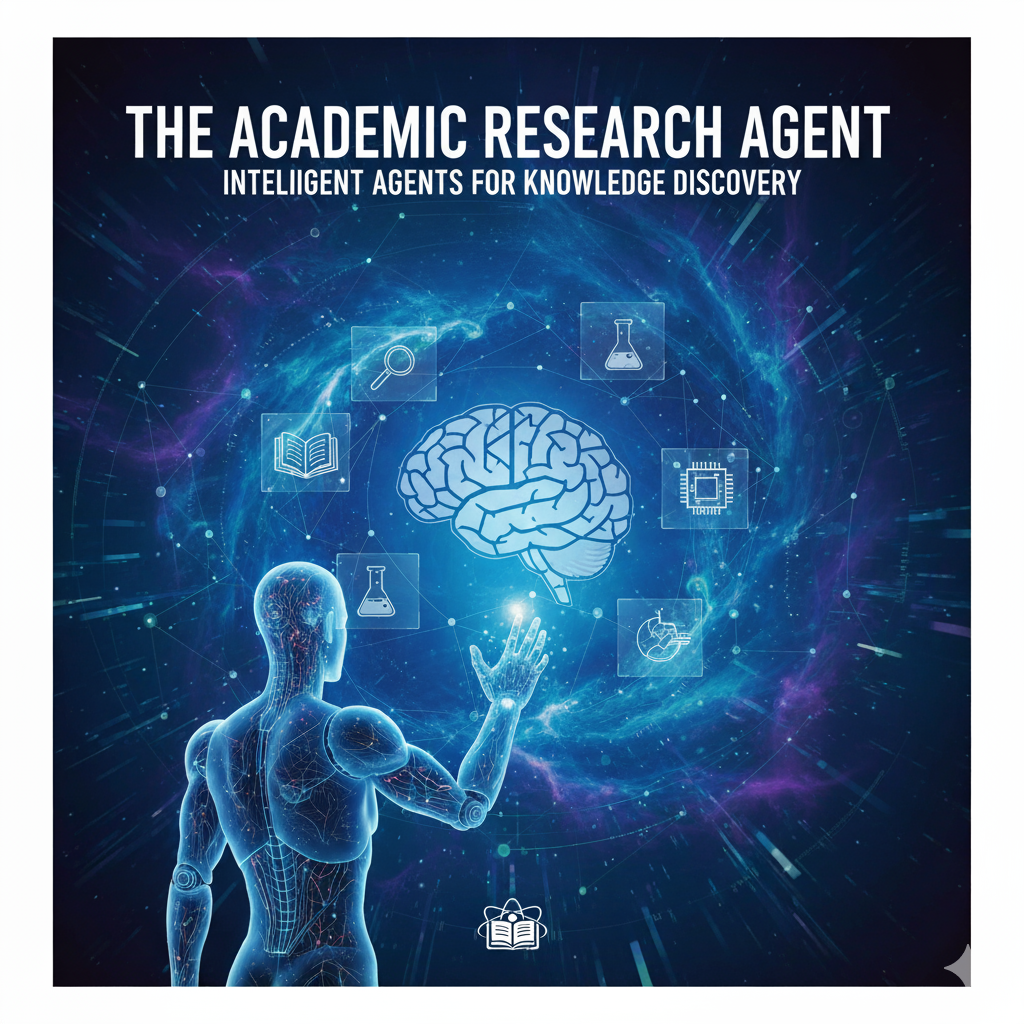
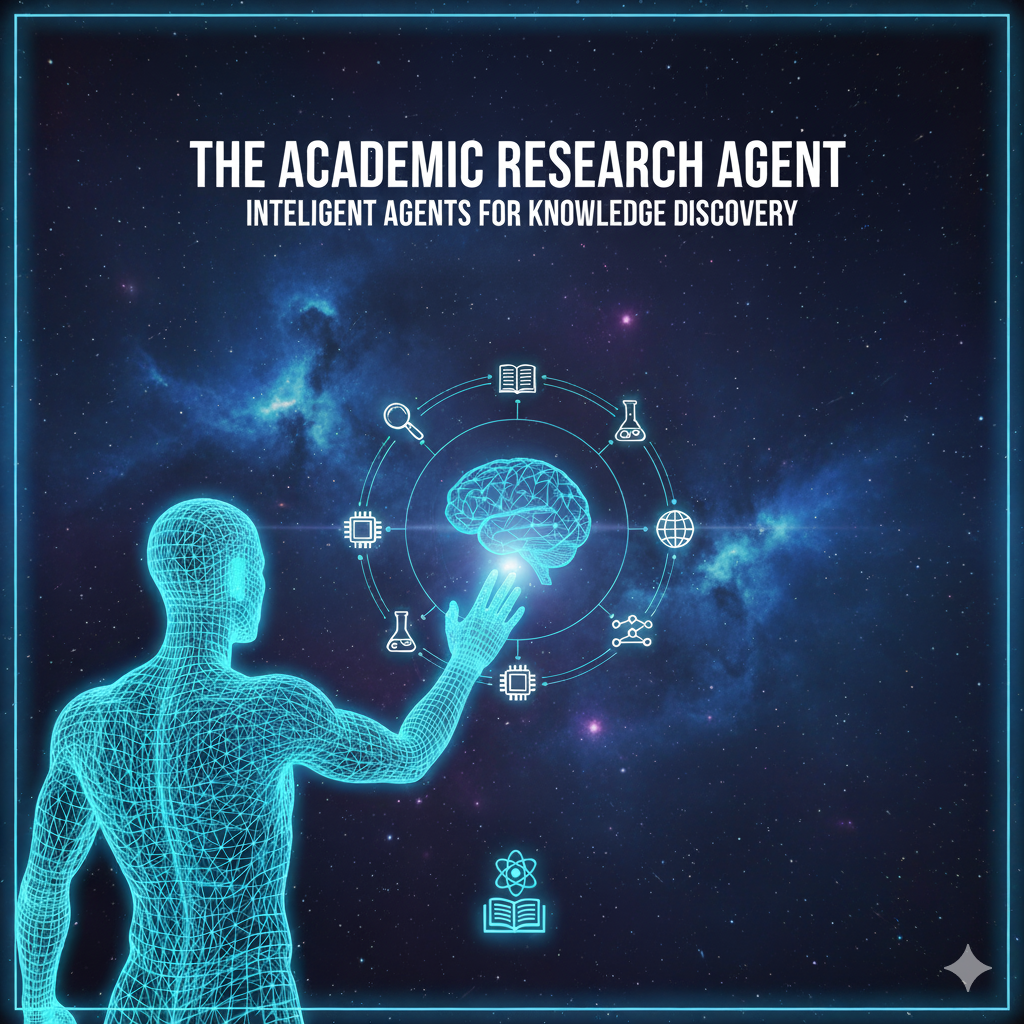
new images

diff --git a/app/page.js b/app/page.js
@@ -1,12 +1,16 @@
 "use client";
 
-import { useState } from 'react';
+import { Suspense } from 'react';
+import { useSearchParams } from 'next/navigation';
+import Link from 'next/link';
 import Sidebar from '../components/Sidebar';
 import Portfolio from '../components/Portfolio';
 import Contact from '../components/Contact';
 
-export default function Page() {
-  const [activePage, setActivePage] = useState('about');
+function PageContent() {
+  const searchParams = useSearchParams();
+  const activePage = searchParams.get('page') || 'about';
+
   return (
     <main>
       <Sidebar />
@@ -15,13 +19,13 @@ export default function Page() {
         <nav className="navbar">
           <ul className="navbar-list">
             <li className="navbar-item">
-              <button className={`navbar-link ${activePage === 'about' ? 'active' : ''}`} onClick={() => setActivePage('about')}>About</button>
+              <Link href="/?page=about" className={`navbar-link ${activePage === 'about' ? 'active' : ''}`}>About</Link>
             </li>
             <li className="navbar-item">
-              <button className={`navbar-link ${activePage === 'portfolio' ? 'active' : ''}`} onClick={() => setActivePage('portfolio')}>Portfolio</button>
+              <Link href="/?page=portfolio" className={`navbar-link ${activePage === 'portfolio' ? 'active' : ''}`}>Portfolio</Link>
             </li>
             <li className="navbar-item">
-              <button className={`navbar-link ${activePage === 'contact' ? 'active' : ''}`} onClick={() => setActivePage('contact')}>Contact</button>
+              <Link href="/?page=contact" className={`navbar-link ${activePage === 'contact' ? 'active' : ''}`}>Contact</Link>
             </li>
           </ul>
         </nav>
@@ -116,10 +120,20 @@ export default function Page() {
           </section>
         </article>
 
-        <Portfolio active={activePage === 'portfolio'} />
+        <Suspense fallback={<div>Loading...</div>}>
+          <Portfolio active={activePage === 'portfolio'} />
+        </Suspense>
 
         <Contact active={activePage === 'contact'} />
       </div>
     </main>
+  );
+}
+
+export default function Page() {
+  return (
+    <Suspense fallback={<div>Loading...</div>}>
+      <PageContent />
+    </Suspense>
   );
 }

diff --git a/data/projects.js b/data/projects.js
@@ -139,7 +139,7 @@ export const projectsData = [
     href: "https://drive.google.com/file/d/1t7JuL-nqCbN0CV3kKcIjUQWAiBJzEgRO/view?usp=sharing",
     imgSrc: "/assets/images/intelligent-agents-code.svg",
     imgAlt: "Code for the project",
-    title: "Code for the project => Academic research agent",
+    title: "Code: Academic research agent",
     category: "Intelligent Agents",
     dataCategory: "Intelligent Agents"
   },
@@ -153,7 +153,7 @@ export const projectsData = [
   },
   {
     href: "https://docs.google.com/document/d/1qJVuF6cdPdCTxU0lLzEReiSQOxyw0k9d/edit?usp=drive_link&ouid=108239562569104285155&rtpof=true&sd=true",
-    imgSrc: "/assets/images/intelligent-agents-notes.svg",
+    imgSrc: "/assets/images/IA-SpeakingNotes.png",
     imgAlt: "speaking notes for the ppt",
     title: "speaking notes for the ppt",
     category: "Intelligent Agents",
@@ -161,7 +161,7 @@ export const projectsData = [
   },
   {
     href: "https://docs.google.com/document/d/1SN1N7u5RGfnfSm0m6lk0-iijjkyunqF5/edit?usp=sharing&ouid=108239562569104285155&rtpof=true&sd=true",
-    imgSrc: "/assets/images/intelligent-agents-acl-discussion.svg",
+    imgSrc: "/assets/images/IA-ACL-Discussion.png",
     imgAlt: "Agent Communication Languages - Discussion",
     title: "Agent Communication Languages - Discussion",
     category: "Intelligent Agents",
@@ -169,7 +169,7 @@ export const projectsData = [
   },
   {
     href: "https://docs.google.com/document/d/1_Y1rdlyY0Zrq44jBEYZNiM2fGCrWOsER4e8mjY893yc/edit?usp=drive_link",
-    imgSrc: "/assets/images/intelligent-agents-acl-summary.svg",
+    imgSrc: "/assets/images/IA-ACL-discussion-Summary.png",
     imgAlt: "Agent Communication Languages - Summary",
     title: "Agent Communication Languages - Summary",
     category: "Intelligent Agents",

diff --git a/components/Portfolio.js b/components/Portfolio.js
@@ -1,16 +1,23 @@
 "use client";
 
 import { useState } from 'react';
+import { useRouter, usePathname, useSearchParams } from 'next/navigation';
 import { projectsData } from '../data/projects';
 
 const Portfolio = ({ active }) => {
-  const [activeFilter, setActiveFilter] = useState('All');
+  const router = useRouter();
+  const pathname = usePathname();
+  const searchParams = useSearchParams();
+  const activeFilter = searchParams.get('filter') || 'All';
+
   const [isSelectOpen, setIsSelectOpen] = useState(false);
 
   const filters = ['All', 'AI', 'Knowledge Representation', 'Numerical Analysis', 'ML', 'Research methods', 'Summary Post', 'Intelligent Agents'];
 
   const handleFilterClick = (filter) => {
-    setActiveFilter(filter);
+    const params = new URLSearchParams(searchParams);
+    params.set('filter', filter);
+    router.push(`${pathname}?${params.toString()}`);
     setIsSelectOpen(false);
   };
 

diff --git a/public/assets/css/custom.css b/public/assets/css/custom.css
@@ -11,7 +11,10 @@
 .project-img img[src="./assets/images/Action-plan.webp"],
 .project-img img[src="/assets/images/IA-report.png"],
 .project-img img[src="/assets/images/IA-outline.png"],
-.project-img img[src="/assets/images/IA-Presentation.png"] {
+.project-img img[src="/assets/images/IA-Presentation.png"],
+.project-img img[src="/assets/images/IA-SpeakingNotes.png"],
+.project-img img[src="/assets/images/IA-ACL-Discussion.png"],
+.project-img img[src="/assets/images/IA-ACL-discussion-Summary.png"] {
   height: 194.49px;
   object-fit: cover;
 }
